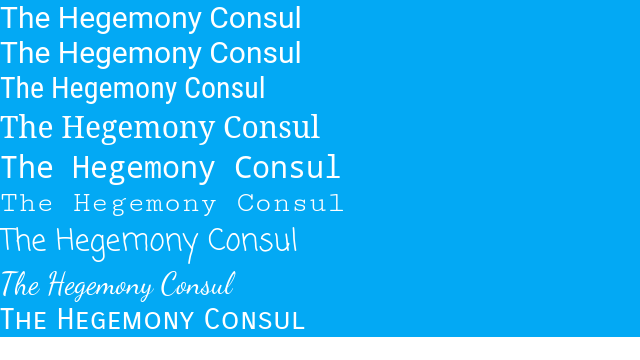
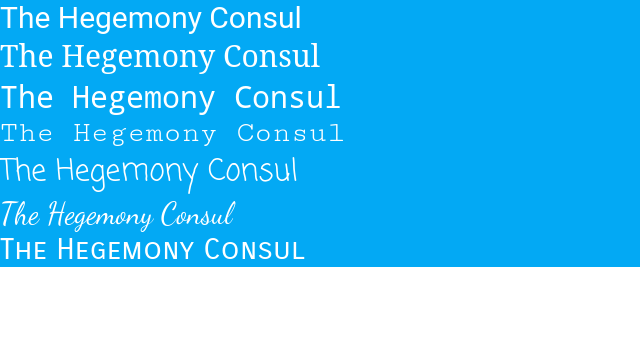
Add italic layout tests
Updated the layout tests to include ones testing italic font selection.

Changed region(s): [[0.0, 0.0917, 1.0, 0.9472]]

diff --git a/cobalt/layout_tests/testdata/css3-fonts/5-2-use-first-available-listed-font-family.html b/cobalt/layout_tests/testdata/css3-fonts/5-2-use-first-available-listed-font-family.html
@@ -18,37 +18,31 @@
       width: 700px;
     }
     .sans-serif {
-        font-family: unavailable1, sans-serif, Roboto, unavailable2;
+      font-family: unavailable1, sans-serif, Roboto, unavailable2;
       }
-    .sans-serif-condensed {
-        font-family: sans-serif-condensed, Roboto, unavailable1, unavailable2;
-    }
     .serif {
-        font-family: unavailable1, unavailable2, serif, Roboto;
+      font-family: unavailable1, unavailable2, serif, Roboto;
     }
     .monospace {
-        font-family: "unavailable1", monospace, Roboto, "unavailable1";
+      font-family: "unavailable1", monospace, Roboto, "unavailable1";
     }
     .serif-monospace {
-        font-family: serif-monospace, Roboto, "unavailable1", "unavailable2";
+      font-family: serif-monospace, Roboto, "unavailable1", "unavailable2";
     }
     .casual {
-        font-family: "unavailable1", "unavailable2", casual, Roboto;
+      font-family: "unavailable1", "unavailable2", casual, Roboto;
     }
     .cursive {
-        font-family: cursive, sans-serif-smallcaps;
+      font-family: cursive, sans-serif-smallcaps;
     }
     .sans-serif-smallcaps {
-        font-family: sans-serif-smallcaps, cursive;
+      font-family: sans-serif-smallcaps, cursive;
     }
-    
   </style>
 </head>
 <body>
   <div class="containing-block">
-    <div class="arial">The Hegemony Consul</div>
     <div class="sans-serif">The Hegemony Consul</div>
-    <div class="sans-serif-condensed">The Hegemony Consul</div>
     <div class="serif">The Hegemony Consul</div>
     <div class="monospace">The Hegemony Consul</div>
     <div class="serif-monospace">The Hegemony Consul</div>

diff --git a/cobalt/layout_tests/testdata/css3-fonts/5-2-use-specified-font-family-if-available.html b/cobalt/layout_tests/testdata/css3-fonts/5-2-use-specified-font-family-if-available.html
@@ -18,38 +18,42 @@
       width: 700px;
     }
     .sans-serif {
-        font-family: sans-serif;
-      }
-    .sans-serif-condensed {
-        font-family: sans-serif-condensed;
+      font-family: sans-serif;
+    }
+    .sans-serif-italic {
+      font-family: sans-serif;
+      font-style: italic;
     }
     .serif {
-        font-family: serif;
+      font-family: serif;
+    }
+    .serif-italic {
+      font-family: serif;
+      font-style: italic;
     }
     .monospace {
-        font-family: monospace;
+      font-family: monospace;
     }
     .serif-monospace {
-        font-family: serif-monospace;
+      font-family: serif-monospace;
     }
     .casual {
-        font-family: casual;
+      font-family: casual;
     }
     .cursive {
-        font-family: cursive;
+      font-family: cursive;
     }
     .sans-serif-smallcaps {
-        font-family: sans-serif-smallcaps;
+      font-family: sans-serif-smallcaps;
     }
-    
   </style>
 </head>
 <body>
   <div class="containing-block">
-    <div class="arial">The Hegemony Consul</div>
     <div class="sans-serif">The Hegemony Consul</div>
-    <div class="sans-serif-condensed">The Hegemony Consul</div>
+    <div class="sans-serif-italic">The Hegemony Consul</div>
     <div class="serif">The Hegemony Consul</div>
+    <div class="serif-italic">The Hegemony Consul</div>
     <div class="monospace">The Hegemony Consul</div>
     <div class="serif-monospace">The Hegemony Consul</div>
     <div class="casual">The Hegemony Consul</div>

diff --git a/cobalt/layout_tests/testdata/css3-fonts/5-2-use-correct-style-in-font-family.html b/cobalt/layout_tests/testdata/css3-fonts/5-2-use-correct-style-in-font-family.html
@@ -1,0 +1,50 @@
+<!DOCTYPE html>
+<!--
+ | The user agent should use the font face within a given font family
+ | that most closely matches the specified weight and style.
+ |   http://www.w3.org/TR/css3-fonts/#font-style-matching
+ -->
+<html>
+<head>
+  <meta charset="utf-8">
+  <style>
+    body {
+      color: #fff;
+      font-size: 30px;
+      font-weight: normal;
+    }
+    .containing-block {
+      background-color: #03a9f4;
+      width: 700px;
+    }
+    .sans-serif-normal-normal {
+      font-family: sans-serif;
+      font-weight: normal;
+      font-style: normal;
+    }
+    .sans-serif-normal-italic {
+      font-family: sans-serif;
+      font-weight: normal;
+      font-style: italic;
+    }
+    .sans-serif-bold-normal {
+      font-family: sans-serif;
+      font-weight: bold;
+      font-style: normal;
+    }
+    .sans-serif-bold-italic {
+      font-family: sans-serif;
+      font-weight: bold;
+      font-style: italic;
+    }
+  </style>
+</head>
+<body>
+  <div class="containing-block">
+    <div class="sans-serif-normal-normal">The Hegemony Consul</div>
+    <div class="sans-serif-normal-italic">The Hegemony Consul</div>
+    <div class="sans-serif-bold-normal">The Hegemony Consul</div>
+    <div class="sans-serif-bold-italic">The Hegemony Consul</div>
+  </div>
+</body>
+</html>

diff --git a/cobalt/layout_tests/testdata/css3-fonts/5-2-use-numerical-font-weights-in-family-face-matching.html b/cobalt/layout_tests/testdata/css3-fonts/5-2-use-numerical-font-weights-in-family-face-matching.html
@@ -23,31 +23,31 @@
       width: 700px;
     }
     .thin-weight {
-        font-weight: 100;
+      font-weight: 100;
       }
     .extra-light-weight {
-        font-weight: 200;
+      font-weight: 200;
     }
     .light-weight {
-        font-weight: 300;
+      font-weight: 300;
     }
     .normal-weight {
-        font-weight: 400;
+      font-weight: 400;
     }
     .medium-weight {
-        font-weight: 500;
+      font-weight: 500;
     }
     .semi-bold-weight {
-        font-weight: 600;
+      font-weight: 600;
     }
     .bold-weight {
-        font-weight: 700;
+      font-weight: 700;
     }
     .extra-bold-weight {
-        font-weight: 800;
+      font-weight: 800;
     }
     .black-weight {
-        font-weight: 900;
+      font-weight: 900;
     }
   </style>
 </head>
